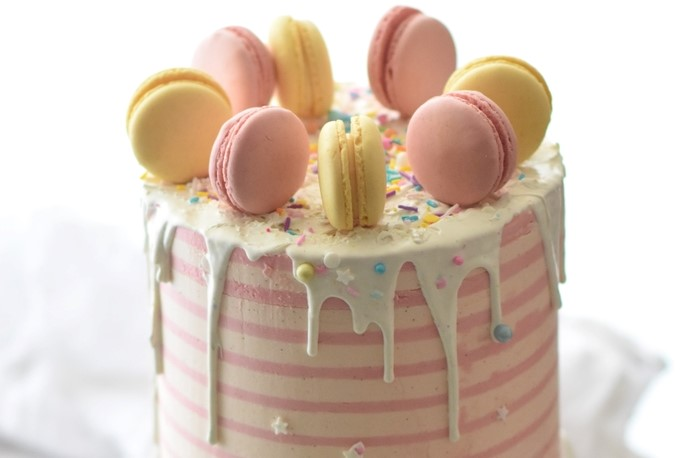
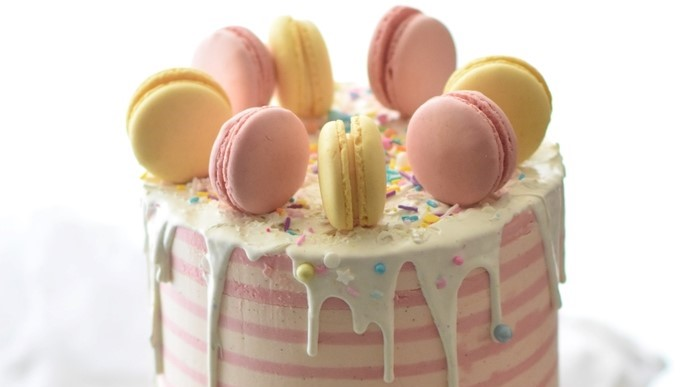
fix gallery images so they are all the same size

diff --git a/assets/css/style.css b/assets/css/style.css
@@ -179,9 +179,11 @@ header {
     height: auto;
 }
 
-/*#shop {
-  
-}*/
+#gallery {
+    height: auto;
+}
+
+/#shop {}
 
 /*----------------------------------------------------Hover.css */
 
